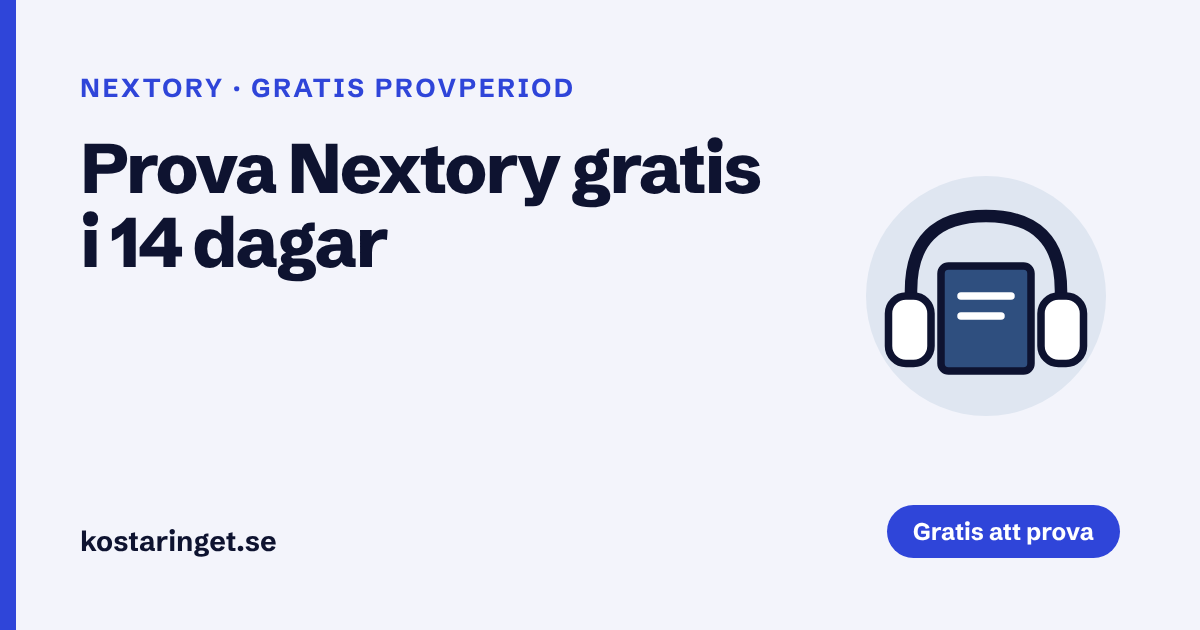
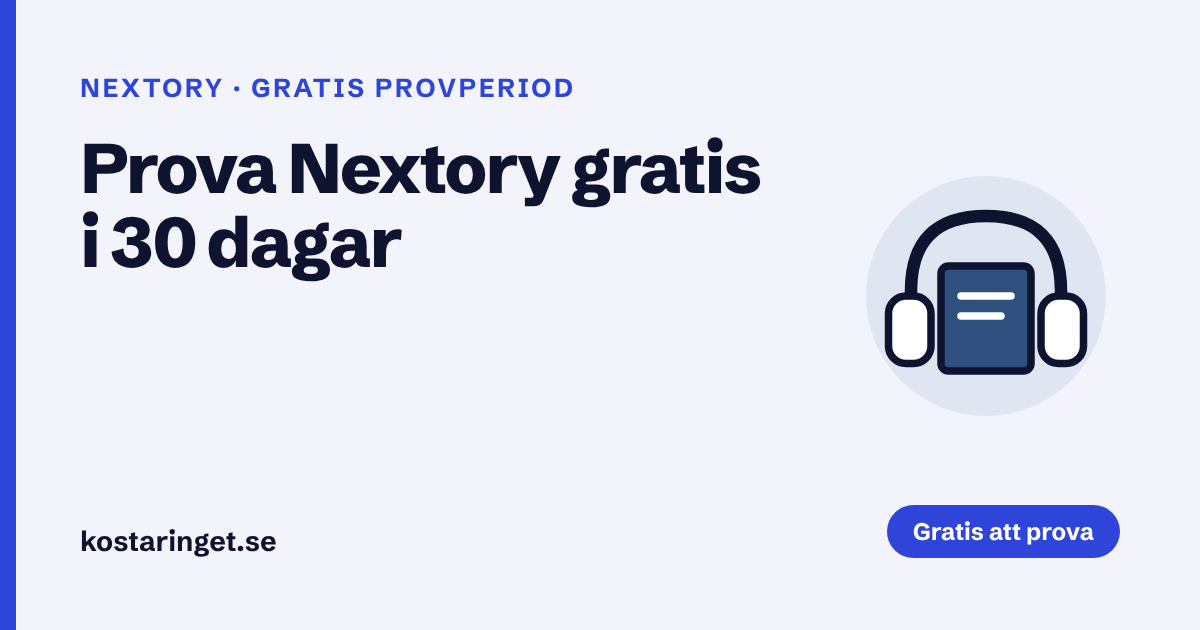
Dagens fynd 2026-11-23 (morgon)
Claude-Session: https://claude.ai/code/session_011DFCg6zjBtS2qfhzcGcdLf

Changed region(s): [[0.0925, 0.3317, 0.3392, 0.4524]]

diff --git a/src/content/blogg/2026-11-23-langre-provperioder-ljudbocker.md b/src/content/blogg/2026-11-23-langre-provperioder-ljudbocker.md
@@ -1,0 +1,30 @@
+---
+title: Längre gratis provperioder på ljudböcker hos Nextory och Bokus Play
+seoTitle: "Längre gratis provperioder på ljudböcker"
+description: "Dagens fynd 23 november: Nextory har förlängt sin gratis provperiod till 30 dagar, och Bokus Play ger 60 dagar gratis Premium under Black Week."
+published: 2026-11-23
+kind: dagens
+category: tjanster
+illustration: ljudbok
+offers:
+  - nextory-ljudbocker-14-dagar-gratis
+  - bokus-play-30-dagar-gratis
+---
+
+Två ljudbokstjänster har gjort sina gratis provperioder längre. Det är bra nyheter om du vill lyssna mycket under julen utan att betala.
+
+## Nextory: 30 dagar i stället för 14
+
+[Nextory](/gratis/nextory-ljudbocker-14-dagar-gratis/) har förlängt sin gratis provperiod från 14 till 30 dagar. Under provperioden ingår 30 timmars läsning och lyssning, och det gäller alla abonnemang. Efter provperioden kostar Nextory från 89 kr i månaden.
+
+## Bokus Play: 60 dagar Premium under Black Week
+
+[Bokus Play](/gratis/bokus-play-30-dagar-gratis/) har en Black Week-kampanj där du kan prova Premium gratis i 60 dagar, dubbelt så länge som vanligt. Du startar den via kampanjlänken på Bokus sida för Play. Bokus skriver inte när kampanjen slutar, så räkna med att den kan försvinna efter Black Week.
+
+## Glöm inte att säga upp
+
+Båda provperioderna blir betalda abonnemang om du inte säger upp i tid. Skriv upp slutdatumet samma dag som du startar. Läs vår guide om [hur du säger upp en provperiod i tid](/guide/sag-upp-provperiod/), och jämför alla tjänster i guiden om [gratis ljudböcker](/guide/gratis-ljudbocker/).
+
+## Tips: en tjänst i taget
+
+Starta inte flera provperioder samtidigt. Börja med den du är mest nyfiken på, och prova nästa när du har sagt upp den första.

diff --git a/src/content/erbjudanden/nextory-ljudbocker-14-dagar-gratis.md b/src/content/erbjudanden/nextory-ljudbocker-14-dagar-gratis.md
@@ -1,20 +1,21 @@
 ---
-title: Prova Nextory gratis i 14 dagar
+title: Prova Nextory gratis i 30 dagar
+seoTitle: "Nextory: ljudböcker gratis i 30 dagar"
 illustration: ljudbok
-description: Nextory har 14 dagars gratis provperiod på ljudböcker och e-böcker för nya användare. Prenumerationen fortsätter automatiskt om du inte säger upp den.
+description: Nextory har 30 dagars gratis provperiod med 30 timmars läsning och lyssning för nya användare. Därefter från 89 kr i månaden om du inte säger upp.
 brand: Nextory
 category: tjanster
 type: provperiod
 url: https://nextory.com/se
 requirements:
   - Gäller nya användare
-  - Säg upp innan 14 dagar om du inte vill betala
+  - Säg upp innan 30 dagar om du inte vill betala
 published: 2026-10-09
-updated: 2026-11-07
-checked: 2026-11-17
+updated: 2026-11-23
+checked: 2026-11-23
 ---
 
-Nextory är en tjänst för ljudböcker och e-böcker. Nya användare kan prova gratis i 14 dagar, med upp till 30 timmars läsning och lyssning, och välja mellan olika abonnemang, till exempel Standard med upp till 30 timmars läsning och lyssning per månad.
+Nextory är en tjänst för ljudböcker och e-böcker. Nya användare kan prova gratis i 30 dagar, med 30 timmars läsning och lyssning. Alla abonnemang har samma provperiod, till exempel Mini med upp till 10 timmar i månaden efter provperioden.
 
 ## Så gör du
 
@@ -24,5 +25,5 @@ Nextory är en tjänst för ljudböcker och e-böcker. Nya användare kan prova 
 
 ## Bra att veta
 
-- Provperioden är kortare än hos flera konkurrenter, 14 dagar.
+- Provperioden förlängdes i november 2026 från 14 till 30 dagar.
 - **Abonnemanget blir betalt automatiskt** när provperioden är slut, från 89 kr i månaden beroende på abonnemang. Säg upp i tid om du bara vill prova.

diff --git a/src/content/blogg/2026-11-11-sag-upp-provperioden-i-tid.md b/src/content/blogg/2026-11-11-sag-upp-provperioden-i-tid.md
@@ -5,6 +5,7 @@ seoTitle: "Så säger du upp en gratis provperiod i tid"
 illustration: kalender
 description: "Gratis provperioder på streaming och ljudböcker blir betalda om du glömmer att säga upp dem. Så håller du koll, och vilka provperioder som finns just nu."
 published: 2026-11-11
+updated: 2026-11-23
 kind: guide
 category: tjanster
 offers:
@@ -22,8 +23,8 @@ En gratis provperiod är ett bra sätt att testa en tjänst. Men nästan alla fo
 - **[Amazon Prime](/gratis/amazon-prime-30-dagar-gratis/), 30 dagar.** Prime Video, fri frakt på Prime-varor och Prime Gaming. Därefter 69 kr i månaden eller 649 kr om året. Nytt på sajten i dag.
 - **[Trippel](/gratis/trippel-viaplay-storytel-podme-30-dagar/), 30 dagar.** Viaplay, Storytel och Podme i ett paket.
 - **[BookBeat](/gratis/bookbeat-ljudbocker-30-dagar-gratis/), 30 dagar.** 20 timmar ljudböcker och e-böcker. Därefter från 99 kr i månaden.
-- **[Bokus Play](/gratis/bokus-play-30-dagar-gratis/), 30 dagar.** 30 timmar lyssning och läsning. Därefter från 79 kr i månaden.
-- **[Nextory](/gratis/nextory-ljudbocker-14-dagar-gratis/), 14 dagar.** Ljudböcker och e-böcker.
+- **[Bokus Play](/gratis/bokus-play-30-dagar-gratis/), 30 dagar (just nu 60 dagar Premium under Black Week).** 30 timmar lyssning och läsning. Därefter från 79 kr i månaden.
+- **[Nextory](/gratis/nextory-ljudbocker-14-dagar-gratis/), 30 dagar.** 30 timmar läsning och lyssning. Därefter från 89 kr i månaden.
 
 Alla gäller för nya kunder. Villkoren ändras ofta, så läs alltid på tjänstens egen sida innan du startar.
 

diff --git a/src/content/blogg/2026-11-04-gratis-provperioder-streaming.md b/src/content/blogg/2026-11-04-gratis-provperioder-streaming.md
@@ -5,7 +5,7 @@ seoTitle: "Gratis provperioder på streaming och ljudböcker"
 illustration: kalender
 description: Viaplay, Storytel, Podme, ljudboksappar och tidningar för studenter. Så får du ut mest av gratis provperioder och säger upp innan det börjar kosta.
 published: 2026-11-04
-updated: 2026-11-05
+updated: 2026-11-23
 kind: guide
 category: tjanster
 offers:
@@ -25,9 +25,9 @@ Vi har kontrollerat de här provperioderna hos tjänsterna själva:
 | Tjänst | Gratis i | Efteråt |
 | --- | --- | --- |
 | [Trippel](/gratis/trippel-viaplay-storytel-podme-30-dagar/) (Viaplay, Storytel och Podme) | 30 dagar | Betalt abonnemang |
-| [Bokus Play](/gratis/bokus-play-30-dagar-gratis/) | 30 dagar, upp till 30 timmar | Från 79 kr/mån |
+| [Bokus Play](/gratis/bokus-play-30-dagar-gratis/) | 30 dagar, just nu 60 dagar Premium under Black Week | Från 79 kr/mån |
 | [BookBeat](/gratis/bookbeat-ljudbocker-30-dagar-gratis/) | 30 dagar, 20 timmar | Från 99 kr/mån |
-| [Nextory](/gratis/nextory-ljudbocker-14-dagar-gratis/) | 14 dagar | Från 89 kr/mån |
+| [Nextory](/gratis/nextory-ljudbocker-14-dagar-gratis/) | 30 dagar, upp till 30 timmar | Från 89 kr/mån |
 | [Aftonbladet Plus](/gratis/aftonbladet-plus-student-5-manader-gratis/) för studenter | 5 månader | 79 kr/mån |
 
 Nytt i dag är **Trippel**, där Viaplay, Storytel och Podme ingår i samma paket. Det är ett bra sätt att prova tre tjänster på en gång. Har du redan något av abonnemangen måste du säga upp det först.

diff --git a/src/content/erbjudanden/bokus-play-30-dagar-gratis.md b/src/content/erbjudanden/bokus-play-30-dagar-gratis.md
@@ -1,7 +1,7 @@
 ---
 title: Bokus Play gratis i 30 dagar
 illustration: ljudbok
-description: Bokus Play har 30 dagars gratis provperiod för nya användare, med upp till 30 timmars lyssning och läsning. Därefter från 79 kr i månaden.
+description: Bokus Play har 30 dagars gratis provperiod för nya användare. Just nu under Black Week går det att prova Premium gratis i 60 dagar. Därefter från 79 kr i månaden.
 brand: Bokus Play
 category: tjanster
 type: provperiod
@@ -10,11 +10,15 @@ requirements:
   - Gäller nya användare
   - Säg upp innan 30 dagar om du inte vill betala
 published: 2026-10-09
-updated: 2026-11-05
-checked: 2026-11-20
+updated: 2026-11-23
+checked: 2026-11-23
 ---
 
 Bokus Play är bokhandeln Bokus egen tjänst för ljudböcker och e-böcker. Nya användare kan prova gratis i 30 dagar, med upp till 30 timmars lyssning och läsning, och få tillgång till över 100 000 titlar.
+
+## Just nu: 60 dagar gratis under Black Week
+
+Bokus Play har en Black Week-kampanj där du kan prova Premium gratis i 60 dagar i stället för 30. Du startar den via kampanjlänken "Gratis ljudböcker i 60 dagar" på bokus.com/play. Bokus anger inte när kampanjen slutar, så räkna med att den kan försvinna när Black Week är över.
 
 ## Så gör du
 

diff --git a/src/content/blogg/gratis-provperiod-ljudbocker.md b/src/content/blogg/gratis-provperiod-ljudbocker.md
@@ -5,7 +5,7 @@ seoTitle: "Ljudböcker gratis – jämför provperioderna"
 illustration: bok
 description: BookBeat, Bokus Play och Nextory har gratis provperioder på ljudböcker. Så länge gäller de, vad som ingår och hur du säger upp i tid.
 published: 2026-10-09
-updated: 2026-11-05
+updated: 2026-11-23
 category: tjanster
 ---
 
@@ -16,8 +16,8 @@ Nästan alla ljudbokstjänster i Sverige låter nya användare lyssna gratis en 
 | Tjänst | Gratis i | Bra att veta |
 | --- | --- | --- |
 | [BookBeat](/gratis/bookbeat-ljudbocker-30-dagar-gratis/) | 30 dagar | 20 timmar ingår, sedan från 99 kr/mån |
-| [Bokus Play](/gratis/bokus-play-30-dagar-gratis/) | 30 dagar | Upp till 30 timmar, sedan från 79 kr/mån |
-| [Nextory](/gratis/nextory-ljudbocker-14-dagar-gratis/) | 14 dagar | Kortast provperiod av de tre |
+| [Bokus Play](/gratis/bokus-play-30-dagar-gratis/) | 30 dagar, just nu 60 dagar Premium under Black Week | Sedan från 79 kr/mån |
+| [Nextory](/gratis/nextory-ljudbocker-14-dagar-gratis/) | 30 dagar | 30 timmar ingår, sedan från 89 kr/mån |
 
 Villkoren ändras ofta. Kontrollera alltid hos tjänsten innan du startar.
 

diff --git a/src/content/erbjudanden/soferia-gratis-tygprover.md b/src/content/erbjudanden/soferia-gratis-tygprover.md
@@ -9,7 +9,7 @@ url: https://soferia.se/tyger-och-gratisprover/bestall-prover/
 requirements:
   - Max 5 prover med gratis leverans
 published: 2026-11-02
-checked: 2026-11-17
+checked: 2026-11-23
 ---
 
 Soferia syr överdrag på mått till IKEA-soffor, fåtöljer och stolar i över 120 olika tyger. Innan du bestämmer dig kan du beställa tygprover hem gratis och se hur färgen och materialet ser ut i ditt eget rum.

diff --git a/src/content/erbjudanden/garnier-gratis-varuprover-vitamin-c.md b/src/content/erbjudanden/garnier-gratis-varuprover-vitamin-c.md
@@ -10,7 +10,7 @@ requirements:
   - Från 16 år och bosatt i Sverige
   - Så länge lagret räcker
 published: 2026-11-22
-checked: 2026-11-22
+checked: 2026-11-23
 ---
 
 Garnier delar ut fem varuprover på sin ansiktskräm Vitamin C Fresh & Bright Hydrating Sorbet Cream, en lätt kräm med sorbetliknande konsistens. Proverna räcker till en rutin på fem dagar och skickas hem i brevlådan utan kostnad.

diff --git a/src/content/erbjudanden/babybag-gratis-bb-mvc.md b/src/content/erbjudanden/babybag-gratis-bb-mvc.md
@@ -10,7 +10,7 @@ url: https://www.babybag.se/
 requirements:
   - Delas ut av din vårdenhet
 published: 2026-10-09
-checked: 2026-11-18
+checked: 2026-11-23
 ---
 
 BabyBag har delats ut till svenska föräldrar sedan 1992. Väskan innehåller produkter, varuprover och information som ska underlätta vardagen med en nyfödd. Innehållet granskas av en oberoende grupp barnmorskor och sjukvårdspersonal.

diff --git a/src/content/erbjudanden/srf-valpkalendern-gratis.md b/src/content/erbjudanden/srf-valpkalendern-gratis.md
@@ -11,7 +11,7 @@ requirements:
   - Personnummer i beställningen
   - Skickas från mitten av november
 published: 2026-11-17
-checked: 2026-11-17
+checked: 2026-11-23
 ---
 
 Synskadades Riksförbund, SRF, ger varje år ut Valpkalendern. Det är en väggkalender med bilder på valpar som en dag kan bli ledarhundar, och den är kostnadsfri. Nu går det att beställa 2027 års kalender.

diff --git a/src/content/erbjudanden/studio-lisa-bengtsson-gratis-tapetprover.md b/src/content/erbjudanden/studio-lisa-bengtsson-gratis-tapetprover.md
@@ -10,7 +10,7 @@ requirements:
   - Max 10 tapetprover per order
 shipping: tillkommer
 published: 2026-10-09
-checked: 2026-11-18
+checked: 2026-11-23
 ---
 
 Tapeter ser ofta annorlunda ut på väggen än på skärmen. Studio Lisa Bengtsson har därför gratis tapetprover på alla sina mönster, så att du kan se färger och tryck i ditt eget ljus.

diff --git a/src/content/erbjudanden/alggutten-gratis-foderprov-hund.md b/src/content/erbjudanden/alggutten-gratis-foderprov-hund.md
@@ -11,7 +11,7 @@ requirements:
   - Beställs i webbutiken
 shipping: tillkommer
 published: 2026-11-14
-checked: 2026-11-19
+checked: 2026-11-23
 ---
 
 AlgGuttens Hundmat gör svensktillverkat hundfoder. I webbutiken kan du lägga en provpåse på 100 g i varukorgen för 0 kr och se om din hund tycker om fodret.
